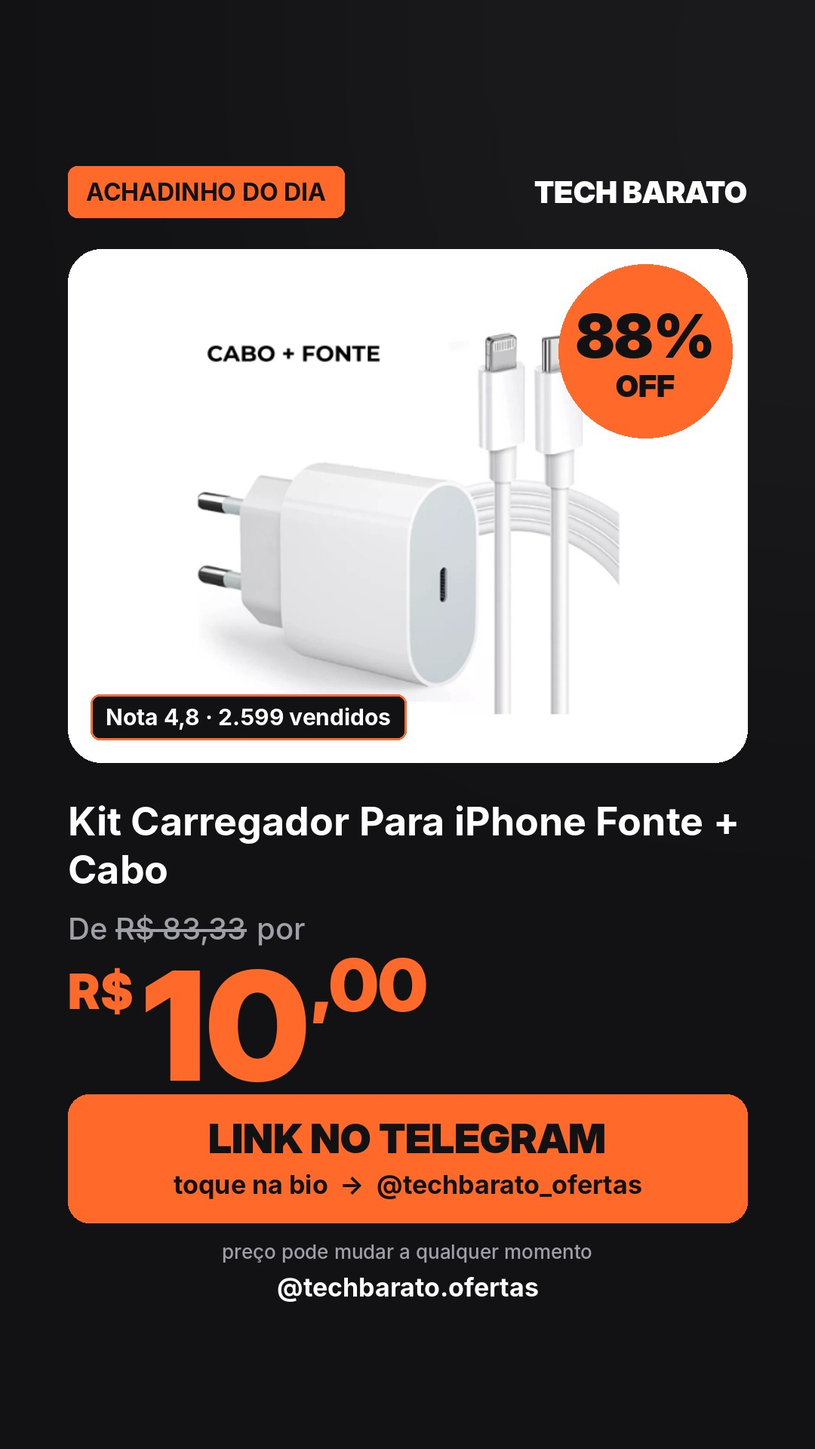
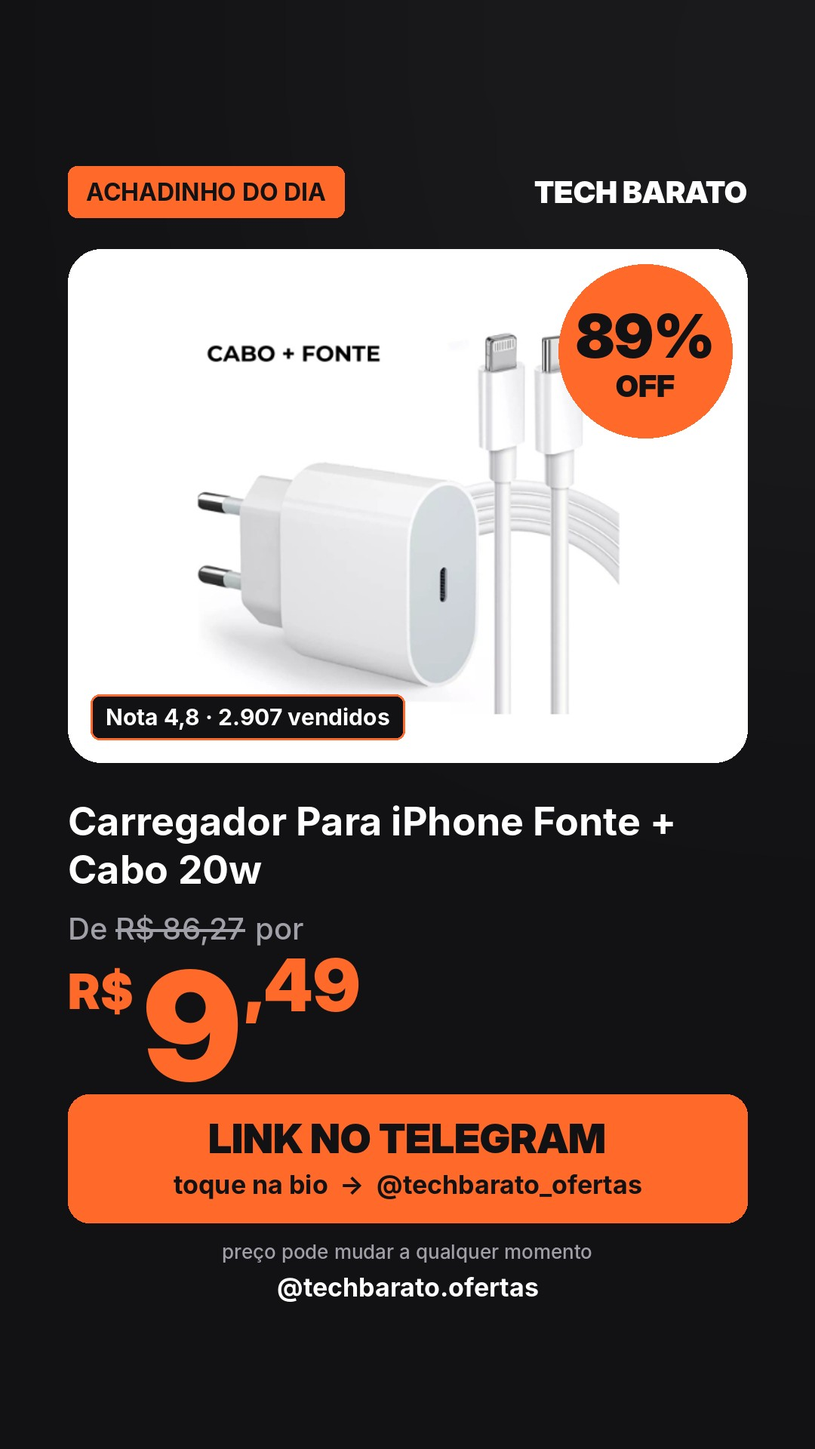
ofertas 2026-11-20_0206

diff --git a/docs/index.html b/docs/index.html
@@ -27,12 +27,12 @@ main{max-width:1100px;margin:auto;padding:8px 16px 40px;display:grid;grid-templa
 footer{text-align:center;color:var(--sub);font-size:12px;padding:0 16px 30px}
 </style></head><body>
 <header><h1>Tech Barato BR <span>●</span></h1>
-<p class="sub">Ofertas da Shopee escolhidas a dedo · atualizado em 19/11/2026 às 16:25</p>
+<p class="sub">Ofertas da Shopee escolhidas a dedo · atualizado em 19/11/2026 às 23:06</p>
 <a class="canal" href="https://t.me/techbarato_ofertas" target="_blank" rel="noopener">📢 Entrar no canal de ofertas</a><div class="filtros" id="f"></div></header>
 <main id="g"></main>
 <footer>Como afiliado da Shopee, posso receber comissão pelas compras feitas pelos links, sem custo extra para você. Preços e estoque podem mudar.</footer>
 <script>
-const D=[{"nome": "Teclado Mecânico Recarregável Interruptores Testador Chaveiros Alto-Falante Amostra Sapo", "preco": 19.4, "preco_original": 57.06, "desconto": 66, "imagem": "https://cf.shopee.com.br/file/br-11134207-81ztc-mj3vpmp8hc76ae", "nota": 4.9, "vendas": 257, "link": "https://s.shopee.com.br/60TITEbw1D", "categoria": "teclado mecanico"}, {"nome": "Mouse Gamer Wireless com Conexão 2.4GHz Estável", "preco": 19.88, "preco_original": 60.24, "desconto": 67, "imagem": "https://cf.shopee.com.br/file/br-11134207-81ztc-mkb1itv9v5s1c9", "nota": 4.8, "vendas": 538, "link": "https://s.shopee.com.br/5q9sGvKYey", "categoria": "mouse gamer"}, {"nome": "Fone De Ouvido NOVO Ruído Cancelando Earbuds Bluetooth Sem Fio HiFi Stereo Com Carregamento De Visor Digital", "preco": 19.99, "preco_original": 60.58, "desconto": 67, "imagem": "https://cf.shopee.com.br/file/sg-11134201-8224o-mhjfql4zsydg80", "nota": 4.6, "vendas": 5281, "link": "https://s.shopee.com.br/1gKJJGNZ3M", "categoria": "fone bluetooth"}, {"nome": "Mouse Gamer Wireless com Conexão 2.4GHz Estável", "preco": 19.88, "preco_original": 60.24, "desconto": 67, "imagem": "https://cf.shopee.com.br/file/br-11134207-81ztc-mkb1itv9v5s1c9", "nota": 4.8, "vendas": 1255, "link": "https://s.shopee.com.br/9zzQVYB4Q4", "categoria": "mouse gamer"}, {"nome": "T900 Ultra Smartwatch Relógio Inteligente Prova Bluetooth Monitoramento De Saúde Exercício Contagem NFC", "preco": 49.8, "preco_original": 150.91, "desconto": 67, "imagem": "https://cf.shopee.com.br/file/br-11134207-81z1k-mfffhm1n60p1be", "nota": 4.7, "vendas": 1465, "link": "https://s.shopee.com.br/9KjjiJvwNN", "categoria": "smartwatch"}, {"nome": "Fone de Ouvido entrada lightning para Iphone Microfone Bluetooth", "preco": 9.99, "preco_original": 30.27, "desconto": 67, "imagem": "https://cf.shopee.com.br/file/sg-11134201-7rbkc-lpcgfnwj651k1e", "nota": 4.7, "vendas": 6917, "link": "https://s.shopee.com.br/9KjjiJePVN", "categoria": "fone bluetooth"}, {"nome": "Headset Gamer TGT Diver V2, Rainbow, Drivers 40mm, Preto, TGT-DVR-RGB02", "preco": 55.9, "preco_original": 174.69, "desconto": 68, "imagem": "https://cf.shopee.com.br/file/br-11134207-81z1k-mf1f34sgcnwkd3", "nota": 4.9, "vendas": 1215, "link": "https://s.shopee.com.br/2gCpMtRBsu", "categoria": "headset gamer"}, {"nome": "Smartwatch D20 relógio Colocar foto com tela hd y68 bluetooth com lembrete chamada monitor de frequência", "preco": 21.98, "preco_original": 70.9, "desconto": 69, "imagem": "https://cf.shopee.com.br/file/sg-11134201-7rbk0-lqqgjmiq5mao68", "nota": 4.5, "vendas": 1266, "link": "https://s.shopee.com.br/9pfzu3iAhW", "categoria": "smartwatch"}, {"nome": "Teclado Gamer/ Escritório Com Fio RGB LED Iluminado  Com 68 Teclados Mecânicos", "preco": 88.88, "preco_original": 296.27, "desconto": 70, "imagem": "https://cf.shopee.com.br/file/br-11134207-7r98o-mcmbazbekcn5d9", "nota": 4.8, "vendas": 357, "link": "https://s.shopee.com.br/5fqQwOgVHz", "categoria": "teclado mecanico"}, {"nome": "Case HD Externo USB 3.0 para HD/SSD 2.5 Gaveta Externa Transparente com Cabo USB Alta Velocidade Compatível Notebook PC", "preco": 21.45, "preco_original": 69.19, "desconto": 69, "imagem": "https://cf.shopee.com.br/file/sg-11134201-8258b-mqnq7bykcyz2f2", "nota": 4.9, "vendas": 649, "link": "https://s.shopee.com.br/9AQIdecIWt", "categoria": "ssd"}, {"nome": "Teclado Gamer/ Escritório Com Fio RGB LED Iluminado  Com 68 Teclados Mecânicos", "preco": 88.88, "preco_original": 296.27, "desconto": 70, "imagem": "https://cf.shopee.com.br/file/br-11134207-7r98o-mcmbtqmuebcx87", "nota": 4.8, "vendas": 502, "link": "https://s.shopee.com.br/906sRLLKlZ", "categoria": "teclado mecanico"}, {"nome": "2026 T800 Ultra 3 MAX Mais Recente Smartwatch Relógio Inteligente NFC Série 10 2.19Polegadas Sem Fio", "preco": 39.8, "preco_original": 147.41, "desconto": 73, "imagem": "https://cf.shopee.com.br/file/br-11134207-81z1k-mhq4f2lhz40397", "nota": 4.7, "vendas": 1755, "link": "https://s.shopee.com.br/8pnSF28ljd", "categoria": "smartwatch"}, {"nome": "Arzopa Z1C Cinza-Monitor Portátil Com Suporte 100 % sRGB De 16.1 \" , 1080P FHD Tela De Extensão De USB C HDMI Para PC", "preco": 528.99, "preco_original": 1763.3, "desconto": 70, "imagem": "https://cf.shopee.com.br/file/cn-11134207-820l4-mvb9zjv0cyyqec", "nota": 5.0, "vendas": 270, "link": "https://s.shopee.com.br/30peYyMXsT", "categoria": "monitor portatil"}, {"nome": "Macaron Teclado Fidget Chaveiro ASMR Clicky Interruptor Mecânico Brinquedo Alívio Do Estresse Pingente Presente", "preco": 8.8, "preco_original": 30.34, "desconto": 71, "imagem": "https://cf.shopee.com.br/file/sg-11134201-8262a-mlx5pxmaeio4eb", "nota": 4.9, "vendas": 476, "link": "https://s.shopee.com.br/7fbU7XrEkT", "categoria": "teclado mecanico"}, {"nome": "1200Mbps Repetidor Wifi Sem Fio 2.4G Amplificador De Sinal Extensor Roteador Booster Network", "preco": 49.97, "preco_original": 199.88, "desconto": 75, "imagem": "https://cf.shopee.com.br/file/br-11134207-820mf-mnkugr2ku5ms16", "nota": 4.7, "vendas": 289, "link": "https://s.shopee.com.br/70LnKJcWHZ", "categoria": "roteador wifi"}, {"nome": "Fone De Ouvido Sem Fio M10 TWS Bluetooth 5.3 display Led Touch", "preco": 18.99, "preco_original": 70.33, "desconto": 73, "imagem": "https://cf.shopee.com.br/file/sg-11134201-8258z-mr0fi8bhfthid6", "nota": 4.8, "vendas": 8349, "link": "https://s.shopee.com.br/3VlunBYgzJ", "categoria": "fone bluetooth"}, {"nome": "KIT Teclado 100% mecânico Punk Esports + mouse para jogos Um item obrigatório para os jogadores -H7", "preco": 52.49, "preco_original": 201.88, "desconto": 74, "imagem": "https://cf.shopee.com.br/file/br-11134207-820m5-mu8ogr0lpfk218", "nota": 4.8, "vendas": 214, "link": "https://s.shopee.com.br/1LhQDCTk0I", "categoria": "teclado mecanico"}, {"nome": "Carregador rápido de 120W com 6A USB C cabo 1M para Mi Turbo Charge Turbo Power Cabo USB + Cabo Tipo C", "preco": 15.89, "preco_original": 61.12, "desconto": 74, "imagem": "https://cf.shopee.com.br/file/sg-11134201-823qk-moi4apd18efh61", "nota": 4.6, "vendas": 3532, "link": "https://s.shopee.com.br/W8JDfBKNI", "categoria": "carregador turbo"}, {"nome": "Câmera Segurança Lâmpada Wifi Full HD Sem Fio 360 Icsee/Yoosee Visão Noturna 8177 EKS", "preco": 58.99, "preco_original": null, "desconto": 0, "imagem": "https://cf.shopee.com.br/file/sg-11134201-8227r-mhhsrii405j733", "nota": 4.9, "vendas": 4406, "link": "https://s.shopee.com.br/3VluJvtBBx", "categoria": "camera wifi"}, {"nome": "Kit Carregador 67W Turbo + Cabo Tipo-C Carga Rápida Universal Xiaomi Redmi Note E Poco X7 Android", "preco": 29.51, "preco_original": null, "desconto": 0, "imagem": "https://cf.shopee.com.br/file/sg-11134201-8258n-mr8vmek85csha1", "nota": 4.5, "vendas": 9310, "link": "https://s.shopee.com.br/2BGWjTgaWK", "categoria": "carregador turbo"}, {"nome": "Senbenbao X55 Fones De Ouvido TWS Sono Sem Fio Bluetooth Display Led Alta Fidelidade Estéreo Cancelamento Ruído À Prova", "preco": 19.29, "preco_original": null, "desconto": 0, "imagem": "https://cf.shopee.com.br/file/sg-11134201-823ob-mp7wv1fcnx8rc4", "nota": 4.8, "vendas": 19272, "link": "https://s.shopee.com.br/20x6XAPYUt", "categoria": "fone bluetooth"}, {"nome": "Teclado Mecânico Gamer Compacto 60% 63 Teclas Switch Blue Rainbow RGB Anti-Ghosting USB", "preco": 99.88, "preco_original": 369.93, "desconto": 73, "imagem": "https://cf.shopee.com.br/file/br-11134207-820lv-mr1pu215296u72", "nota": 4.9, "vendas": 306, "link": "https://s.shopee.com.br/1W0pDmATzl", "categoria": "teclado mecanico"}, {"nome": "HUAWEI WiFi AX2S | Roteador | WS7000 V2 |  Dual Band | 4 Antenas | 5 GHz Wi-Fi 6", "preco": 129.0, "preco_original": 496.15, "desconto": 74, "imagem": "https://cf.shopee.com.br/file/br-11134207-81z1k-me9rity3qqkg1d", "nota": 5.0, "vendas": 1856, "link": "https://s.shopee.com.br/9fMWwmNNjs", "categoria": "roteador wifi"}, {"nome": "Mouse Gamer Jogos Laser 3600dpi Usb Com Fio Led 7 Botões Iluminado", "preco": 16.88, "preco_original": 99.29, "desconto": 83, "imagem": "https://cf.shopee.com.br/file/br-11134207-7r98o-lwoh850dygu797", "nota": 4.8, "vendas": 596, "link": "https://s.shopee.com.br/9AQGLr8AS2", "categoria": "mouse gamer"}, {"nome": "Medidor de SpO2 Portátil para Dedo com Tela LED, Alta Precisão para Monitoramento de Saúde em Casa e Viagem", "preco": 18.89, "preco_original": 42.93, "desconto": 56, "imagem": "https://cf.shopee.com.br/file/sg-11134201-823qv-mooxmpkz30gb81", "nota": 4.7, "vendas": 81, "link": "https://s.shopee.com.br/9V36OON8Xa", "categoria": "monitor portatil"}, {"nome": "Fone Headset Gamer RGB PRO Iluminação LED, Microfone Ajustável, Ideal para Jogos Online", "preco": 79.98, "preco_original": 186.0, "desconto": 57, "imagem": "https://cf.shopee.com.br/file/br-11134207-81z1k-mfczkewm85j991", "nota": 4.9, "vendas": 531, "link": "https://s.shopee.com.br/5Au7EQLtgK", "categoria": "headset gamer"}, {"nome": "Bluetooth Sem fio Fone de ouvido Ergonômico TWS Suporte Orelha Pendurada Anti-queda", "preco": 24.3, "preco_original": 81.0, "desconto": 70, "imagem": "https://cf.shopee.com.br/file/sg-11134201-7rdx3-mch5g12mgnkkac", "nota": 4.7, "vendas": 3047, "link": "https://s.shopee.com.br/50ah27509J", "categoria": "fone bluetooth"}, {"nome": "Smartwatch D20 - Relógio Inteligente y68 Esportivo Bluetooth Android/iOS - Com foto Na Tela", "preco": 19.99, "preco_original": null, "desconto": 0, "imagem": "https://cf.shopee.com.br/file/sg-11134201-7rffv-m43cb4hjqxjrce", "nota": 4.6, "vendas": 4726, "link": "https://s.shopee.com.br/5LDWzOAnYT", "categoria": "smartwatch"}, {"nome": "Carregador iPhone Turbo Tipo-C 20W + Cabo Lightining para IPhone Carga rápida", "preco": 15.99, "preco_original": 49.97, "desconto": 68, "imagem": "https://cf.shopee.com.br/file/sg-11134201-7rbkw-lpcg9rytbas79a", "nota": 4.8, "vendas": 10578, "link": "https://s.shopee.com.br/6q2Km8rXqG", "categoria": "carregador turbo"}, {"nome": "Fone de Ouvido Sem Fio Bluetooth com Condução Óssea/Compacto e Leve/Resistente a Água/Tipo-C", "preco": 31.9, "preco_original": 110.0, "desconto": 71, "imagem": "https://cf.shopee.com.br/file/br-11134211-820ln-mseaww44b5dz4b", "nota": 4.6, "vendas": 3367, "link": "https://s.shopee.com.br/8VAYlCU0uN", "categoria": "fone bluetooth"}, {"nome": "Câmera Vigilância WiFi 4MP Dupla Lente Detecção Inteligente Áudio 2 Vias", "preco": 125.39, "preco_original": 298.55, "desconto": 58, "imagem": "https://cf.shopee.com.br/file/sg-11134201-822zw-mi0cmfoz1p1k70", "nota": 4.9, "vendas": 1412, "link": "https://s.shopee.com.br/7pur5nBt47", "categoria": "camera wifi"}, {"nome": "50M 1080P Sem Fio HDMI Extensor Transmissor De Vídeo Receptor 1TX A 1RX Display Para PS4 Câmera Portátil PC TV Monitor P", "preco": 186.99, "preco_original": 519.42, "desconto": 64, "imagem": "https://cf.shopee.com.br/file/sg-11134201-825ah-mqh2txikvpqme5", "nota": 4.9, "vendas": 163, "link": "https://s.shopee.com.br/6L63J20Tob", "categoria": "monitor portatil"}, {"nome": "Fone De Ouvido Inpods 13 Bluetooth Sem Fio Com Microfone Fones esportivos Adequado Branco", "preco": 19.98, "preco_original": 68.9, "desconto": 71, "imagem": "https://cf.shopee.com.br/file/sg-11134201-825bb-mt7fxycgurra13", "nota": 4.7, "vendas": 7637, "link": "https://s.shopee.com.br/9pfvTSZTW4", "categoria": "fone bluetooth"}, {"nome": "JL PROTEC 4K 8MP Câmera de Segurança 2 Lentes Com Audio e Microfone Câmera 355 Graus Wifi", "preco": 176.88, "preco_original": 402.0, "desconto": 56, "imagem": "https://cf.shopee.com.br/file/br-11134201-81ztc-mj6htjflukg333", "nota": 4.9, "vendas": 1524, "link": "https://s.shopee.com.br/2VtKBa19JA", "categoria": "camera wifi"}, {"nome": "Suporte Gamer Porta Controle Videogame Para Ps4 Xbox Ps5 Fone de Ouvido Headset", "preco": 9.89, "preco_original": 24.73, "desconto": 60, "imagem": "https://cf.shopee.com.br/file/br-11134207-820ll-mlveq5qwu39je0", "nota": 4.5, "vendas": 959, "link": "https://s.shopee.com.br/3LSRB6gNUx", "categoria": "headset gamer"}, {"nome": "Fone De Ouvido Bluetooth Orelha Gatinho Infantil Led Sem Fio", "preco": 27.5, "preco_original": 98.21, "desconto": 72, "imagem": "https://cf.shopee.com.br/file/sg-11134201-820nh-mnq01ce18zr689", "nota": 4.9, "vendas": 5819, "link": "https://s.shopee.com.br/W8Fntdxsf", "categoria": "fone bluetooth"}, {"nome": "Smartwatch 7 Em 1 Alças 49mm Full Touch Screen Sport", "preco": 59.0, "preco_original": 203.45, "desconto": 71, "imagem": "https://cf.shopee.com.br/file/sg-11134201-825zv-ml16vfpvksg5ae", "nota": 4.8, "vendas": 1126, "link": "https://s.shopee.com.br/20x3Czjwhw", "categoria": "smartwatch"}, {"nome": "Mini Teclado Mecânico Anti-Ansiedade em Chaveiro com 4 Teclas Clicáveis – Som Tátil Relaxante", "preco": 11.99, "preco_original": 44.41, "desconto": 73, "imagem": "https://cf.shopee.com.br/file/br-11134207-820m0-mpz8z4g03vuo16", "nota": 4.8, "vendas": 324, "link": "https://s.shopee.com.br/906nXr1hKm", "categoria": "teclado mecanico"}, {"nome": "Fones de Ouvido Bluetooth 5.4 X55 com Visor LED, Hi-Fi Estéreo, Cancelamento de Ruído, Design à Prova d’Água para Graves", "preco": 23.98, "preco_original": 88.81, "desconto": 73, "imagem": "https://cf.shopee.com.br/file/sg-11134201-825a9-mu36trol6akg59", "nota": 4.7, "vendas": 3069, "link": "https://s.shopee.com.br/40i7af7bOE", "categoria": "fone bluetooth"}, {"nome": "Case Gaveta HD SSD 2.5 Sata III USB 3.0 Transparente Externo 6Gbps PC Notebook PS4 Kit 2  su", "preco": 30.99, "preco_original": 99.97, "desconto": 69, "imagem": "https://cf.shopee.com.br/file/sg-11134201-822x7-mhwbric3x4hw69", "nota": 4.9, "vendas": 376, "link": "https://s.shopee.com.br/8Kr65RWREx", "categoria": "ssd"}, {"nome": "Teclado Gamer Semi-mecânico Rgb Anti-ghosting", "preco": 38.88, "preco_original": 149.54, "desconto": 74, "imagem": "https://cf.shopee.com.br/file/br-11134207-7r98o-mcw6gui5vk1e01", "nota": 4.8, "vendas": 962, "link": "https://s.shopee.com.br/8AXft8FxIb", "categoria": "teclado mecanico"}, {"nome": "Fone Pro Sem Fio Som HiFi 8D Pop-Up Automático Toque Inteligente Bateria 5–7h Bluetooth Universal", "preco": 17.99, "preco_original": 69.19, "desconto": 74, "imagem": "https://cf.shopee.com.br/file/sg-11134201-8261z-ml25b72c1ds21d", "nota": 4.8, "vendas": 6974, "link": "https://s.shopee.com.br/gRexLQlr7", "categoria": "fone bluetooth"}, {"nome": "15,6\" portátil Monitor de FHD 1920*1080P IPS 300Nits HDR para jogos compatível com PC/PS3/4/5/Switch/Xbox/Laptop/Celular", "preco": 382.35, "preco_original": 1006.18, "desconto": 62, "imagem": "https://cf.shopee.com.br/file/br-11134207-820lj-mt9fzhlxl2bm30", "nota": 4.8, "vendas": 158, "link": "https://s.shopee.com.br/8AXfXqlb8X", "categoria": "monitor portatil"}, {"nome": "Smartwatch MINI 38MM PRO Com monitor De Frequência Cardíaca Do Computador São Paulo pronta entrega", "preco": 53.99, "preco_original": 199.96, "desconto": 73, "imagem": "https://cf.shopee.com.br/file/br-11134207-81z1k-mg4sqr0e5nggcd", "nota": 4.8, "vendas": 1671, "link": "https://s.shopee.com.br/7fbOwvVplX", "categoria": "smartwatch"}, {"nome": "Headset Gamer Camuflado Com Fio Estéreo Microfone USB P2 50mm Para PC PS4 Xbox-Onistek", "preco": 74.99, "preco_original": 288.42, "desconto": 74, "imagem": "https://cf.shopee.com.br/file/br-11134207-820m3-mrvxqm20m9z828", "nota": 4.9, "vendas": 667, "link": "https://s.shopee.com.br/3LSPmxUfAm", "categoria": "headset gamer"}, {"nome": "Câmera Externa Ip a Prova D'água 4mp wifi ptz com Infravermelho lente dupla Bivolt 110/220V WiFi 360 -G1", "preco": 129.99, "preco_original": 406.22, "desconto": 68, "imagem": "https://cf.shopee.com.br/file/br-11134207-820lk-mtev0n6q7k75f5", "nota": 4.9, "vendas": 302, "link": "https://s.shopee.com.br/Lonrjvy7L", "categoria": "camera wifi"}, {"nome": "Headset Gamer 7.1 Surround Rgb Delta-f7140 Com Microfone Para Pc E Console", "preco": 54.78, "preco_original": 210.69, "desconto": 74, "imagem": "https://cf.shopee.com.br/file/br-11134207-820lk-moa3sgm6molj9c", "nota": 4.9, "vendas": 745, "link": "https://s.shopee.com.br/9KjcaHAREa", "categoria": "headset gamer"}, {"nome": "Fone de Ouvido Sem Fio Airpods PRO 3 Com Cancelamento De Ruído Bluetooth Pop-Up para iOS e Android", "preco": 42.98, "preco_original": 171.92, "desconto": 75, "imagem": "https://cf.shopee.com.br/file/sg-11134201-7rd3v-m70zchxbcirf93", "nota": 4.7, "vendas": 5183, "link": "https://s.shopee.com.br/7KyYCb0WPt", "categoria": "fone bluetooth"}, {"nome": "Cabo Carregador USB Typo C 1 Metro Para Android Galaxy Xiomi Moto G Carregamento Turbo Reforçado", "preco": 10.0, "preco_original": 25.0, "desconto": 60, "imagem": "https://cf.shopee.com.br/file/br-11134201-820lh-mqy2kshjlo1x20", "nota": 4.8, "vendas": 1991, "link": "https://s.shopee.com.br/AAIjI8w0MM", "categoria": "carregador turbo"}, {"nome": "Repetidor Wifi 1200m 6/4 Antenas 3 in 1 functios 2.4g Roteador Amplificador De Sinal e Modem 300MBPS", "preco": 46.98, "preco_original": 120.46, "desconto": 61, "imagem": "https://cf.shopee.com.br/file/br-11134207-820m2-mtz23drmeh3613", "nota": 4.8, "vendas": 774, "link": "https://s.shopee.com.br/9V32UuhM9e", "categoria": "roteador wifi"}, {"nome": "Case Gaveta HD SSD 2.5 Sata III USB 3.0 Transparente Externo 6Gbps PC Notebook PS4 Kit 2  jehnny", "preco": 30.99, "preco_original": 99.97, "desconto": 69, "imagem": "https://cf.shopee.com.br/file/sg-11134201-822x9-mhwbs2tvuo0443", "nota": 4.9, "vendas": 657, "link": "https://s.shopee.com.br/9AQC6IQxU7", "categoria": "ssd"}, {"nome": "Teclado Mecanico TGT Sherman V3 C1, Rainbow, ABNT2, Switch Vermelho, Preto, TGT-SHRC-RD01", "preco": 91.91, "preco_original": 382.96, "desconto": 76, "imagem": "https://cf.shopee.com.br/file/br-11134207-820ls-mqeqor4mxm2o65", "nota": 4.9, "vendas": 432, "link": "https://s.shopee.com.br/AKc8rS07aC", "categoria": "teclado mecanico"}, {"nome": "Fone de Ouvido Sem Fio Com Cancelamento De Ruído Bluetooth Pop-Up", "preco": 42.89, "preco_original": 194.95, "desconto": 78, "imagem": "https://cf.shopee.com.br/file/sg-11134201-7rffm-m4f5wo6pi7mjaa", "nota": 4.8, "vendas": 5966, "link": "https://s.shopee.com.br/114TkIIBur", "categoria": "fone bluetooth"}, {"nome": "Carregador Turbo Inteligente + V8/tipo c Turbo com Cabo Micro USB Novos Telefones Recomendados", "preco": 14.88, "preco_original": 99.2, "desconto": 85, "imagem": "https://cf.shopee.com.br/file/br-11134207-7r98o-lwsogz92un4ic8", "nota": 4.7, "vendas": 1971, "link": "https://s.shopee.com.br/4B1VW6oOpy", "categoria": "carregador turbo"}, {"nome": "Suporte Roteador Modem Parede Sem Furo Fita 3M Adesivo Universal Organizador WiFi Internet", "preco": 12.0, "preco_original": 36.36, "desconto": 67, "imagem": "https://cf.shopee.com.br/file/br-11134207-820lb-mujiqv5jrabkd0", "nota": 4.6, "vendas": 313, "link": "https://s.shopee.com.br/4fxldTIEY9", "categoria": "roteador wifi"}, {"nome": "Smartwatch WL23 PRO(46mm)2026 3 Pulseiras inteligente GPS unisex Esportes Faz Recebe Chamada", "preco": 44.88, "preco_original": 187.0, "desconto": 76, "imagem": "https://cf.shopee.com.br/file/br-11134207-820m0-mpp5kpuip537a4", "nota": 4.9, "vendas": 1790, "link": "https://s.shopee.com.br/6q2GDRsnc9", "categoria": "smartwatch"}, {"nome": "Fone Bluetooth Pro5 Premium | Imersão Total c Cancelamento Ruído Qualidade Superior p iPhoneAndroid", "preco": 66.88, "preco_original": 290.78, "desconto": 77, "imagem": "https://cf.shopee.com.br/file/br-11134207-81z1k-mg4gj8nwxkw7e0", "nota": 4.7, "vendas": 6638, "link": "https://s.shopee.com.br/LomTUzX6I", "categoria": "fone bluetooth"}, {"nome": "Câmera De Segurança Wifi Ip Audio E Sensor Movimen 360 Graus", "preco": 89.89, "preco_original": 172.87, "desconto": 48, "imagem": "https://cf.shopee.com.br/file/br-11134207-7r98o-macsnscjp4lrf3", "nota": 4.7, "vendas": 530, "link": "https://s.shopee.com.br/2LZqTJ0bxb", "categoria": "camera wifi"}, {"nome": "Mini Câmera De Segurança X5 Portátil Full Hd Discreta Monitora Pronta Entrega", "preco": 59.98, "preco_original": 119.96, "desconto": 50, "imagem": "https://cf.shopee.com.br/file/br-11134207-7r98o-lu8g113mxn6cb5", "nota": 4.5, "vendas": 99, "link": "https://s.shopee.com.br/40i4SMcjj6", "categoria": "monitor portatil"}, {"nome": "Calculadora Colorida Morandi De 12 Dígitos Teclado Mecânico De Ponto Grande Escola & Papelaria De Escritório Multineos", "preco": 22.69, "preco_original": 68.76, "desconto": 67, "imagem": "https://cf.shopee.com.br/file/br-11134207-7r98o-m29ormpaj3kmd9", "nota": 4.9, "vendas": 178, "link": "https://s.shopee.com.br/50abeCHGIF", "categoria": "teclado mecanico"}];
+const D=[{"nome": "Relogio Smartwatch Feminino Masculino  Series 10 Para Android ios Faz Recebe Chamada", "preco": 45.99, "preco_original": 199.96, "desconto": 77, "imagem": "https://cf.shopee.com.br/file/br-11134207-81ztc-mk9cs8cko8ap5e", "nota": 4.8, "vendas": 1346, "link": "https://s.shopee.com.br/70Lq6bQXse", "categoria": "smartwatch"}, {"nome": "Fone de Ouvido Sem Fio  PRO5 airpods Com Cancelamento De Ruído Bluetooth Pop-Up para iOS e Android", "preco": 42.98, "preco_original": 238.78, "desconto": 82, "imagem": "https://cf.shopee.com.br/file/br-11134207-7r98o-m712dqkqe0xc50", "nota": 4.7, "vendas": 5852, "link": "https://s.shopee.com.br/4LL4vhJ6B8", "categoria": "fone bluetooth"}, {"nome": "Carregador Para iPhone Fonte + Cabo 20w PD Turbo Rapido Tipo C Lightning", "preco": 9.49, "preco_original": 86.27, "desconto": 89, "imagem": "https://cf.shopee.com.br/file/br-11134207-7r98o-lsvdp1mfzd44da", "nota": 4.8, "vendas": 2907, "link": "https://s.shopee.com.br/8fU45ekvzN", "categoria": "carregador turbo"}, {"nome": "Teclado Mecânico Recarregável Interruptores Testador Chaveiros Alto-Falante Amostra Sapo", "preco": 19.4, "preco_original": 57.06, "desconto": 66, "imagem": "https://cf.shopee.com.br/file/br-11134207-81ztc-mj3vpmp8hc76ae", "nota": 4.9, "vendas": 257, "link": "https://s.shopee.com.br/60TITEbw1D", "categoria": "teclado mecanico"}, {"nome": "Mouse Gamer Wireless com Conexão 2.4GHz Estável", "preco": 19.88, "preco_original": 60.24, "desconto": 67, "imagem": "https://cf.shopee.com.br/file/br-11134207-81ztc-mkb1itv9v5s1c9", "nota": 4.8, "vendas": 538, "link": "https://s.shopee.com.br/5q9sGvKYey", "categoria": "mouse gamer"}, {"nome": "Fone De Ouvido NOVO Ruído Cancelando Earbuds Bluetooth Sem Fio HiFi Stereo Com Carregamento De Visor Digital", "preco": 19.99, "preco_original": 60.58, "desconto": 67, "imagem": "https://cf.shopee.com.br/file/sg-11134201-8224o-mhjfql4zsydg80", "nota": 4.6, "vendas": 5281, "link": "https://s.shopee.com.br/1gKJJGNZ3M", "categoria": "fone bluetooth"}, {"nome": "Mouse Gamer Wireless com Conexão 2.4GHz Estável", "preco": 19.88, "preco_original": 60.24, "desconto": 67, "imagem": "https://cf.shopee.com.br/file/br-11134207-81ztc-mkb1itv9v5s1c9", "nota": 4.8, "vendas": 1255, "link": "https://s.shopee.com.br/9zzQVYB4Q4", "categoria": "mouse gamer"}, {"nome": "T900 Ultra Smartwatch Relógio Inteligente Prova Bluetooth Monitoramento De Saúde Exercício Contagem NFC", "preco": 49.8, "preco_original": 150.91, "desconto": 67, "imagem": "https://cf.shopee.com.br/file/br-11134207-81z1k-mfffhm1n60p1be", "nota": 4.7, "vendas": 1465, "link": "https://s.shopee.com.br/9KjjiJvwNN", "categoria": "smartwatch"}, {"nome": "Fone de Ouvido entrada lightning para Iphone Microfone Bluetooth", "preco": 9.99, "preco_original": 30.27, "desconto": 67, "imagem": "https://cf.shopee.com.br/file/sg-11134201-7rbkc-lpcgfnwj651k1e", "nota": 4.7, "vendas": 6917, "link": "https://s.shopee.com.br/9KjjiJePVN", "categoria": "fone bluetooth"}, {"nome": "Headset Gamer TGT Diver V2, Rainbow, Drivers 40mm, Preto, TGT-DVR-RGB02", "preco": 55.9, "preco_original": 174.69, "desconto": 68, "imagem": "https://cf.shopee.com.br/file/br-11134207-81z1k-mf1f34sgcnwkd3", "nota": 4.9, "vendas": 1215, "link": "https://s.shopee.com.br/2gCpMtRBsu", "categoria": "headset gamer"}, {"nome": "Smartwatch D20 relógio Colocar foto com tela hd y68 bluetooth com lembrete chamada monitor de frequência", "preco": 21.98, "preco_original": 70.9, "desconto": 69, "imagem": "https://cf.shopee.com.br/file/sg-11134201-7rbk0-lqqgjmiq5mao68", "nota": 4.5, "vendas": 1266, "link": "https://s.shopee.com.br/9pfzu3iAhW", "categoria": "smartwatch"}, {"nome": "Teclado Gamer/ Escritório Com Fio RGB LED Iluminado  Com 68 Teclados Mecânicos", "preco": 88.88, "preco_original": 296.27, "desconto": 70, "imagem": "https://cf.shopee.com.br/file/br-11134207-7r98o-mcmbazbekcn5d9", "nota": 4.8, "vendas": 357, "link": "https://s.shopee.com.br/5fqQwOgVHz", "categoria": "teclado mecanico"}, {"nome": "Case HD Externo USB 3.0 para HD/SSD 2.5 Gaveta Externa Transparente com Cabo USB Alta Velocidade Compatível Notebook PC", "preco": 21.45, "preco_original": 69.19, "desconto": 69, "imagem": "https://cf.shopee.com.br/file/sg-11134201-8258b-mqnq7bykcyz2f2", "nota": 4.9, "vendas": 649, "link": "https://s.shopee.com.br/9AQIdecIWt", "categoria": "ssd"}, {"nome": "Teclado Gamer/ Escritório Com Fio RGB LED Iluminado  Com 68 Teclados Mecânicos", "preco": 88.88, "preco_original": 296.27, "desconto": 70, "imagem": "https://cf.shopee.com.br/file/br-11134207-7r98o-mcmbtqmuebcx87", "nota": 4.8, "vendas": 502, "link": "https://s.shopee.com.br/906sRLLKlZ", "categoria": "teclado mecanico"}, {"nome": "2026 T800 Ultra 3 MAX Mais Recente Smartwatch Relógio Inteligente NFC Série 10 2.19Polegadas Sem Fio", "preco": 39.8, "preco_original": 147.41, "desconto": 73, "imagem": "https://cf.shopee.com.br/file/br-11134207-81z1k-mhq4f2lhz40397", "nota": 4.7, "vendas": 1755, "link": "https://s.shopee.com.br/8pnSF28ljd", "categoria": "smartwatch"}, {"nome": "Arzopa Z1C Cinza-Monitor Portátil Com Suporte 100 % sRGB De 16.1 \" , 1080P FHD Tela De Extensão De USB C HDMI Para PC", "preco": 528.99, "preco_original": 1763.3, "desconto": 70, "imagem": "https://cf.shopee.com.br/file/cn-11134207-820l4-mvb9zjv0cyyqec", "nota": 5.0, "vendas": 270, "link": "https://s.shopee.com.br/30peYyMXsT", "categoria": "monitor portatil"}, {"nome": "Macaron Teclado Fidget Chaveiro ASMR Clicky Interruptor Mecânico Brinquedo Alívio Do Estresse Pingente Presente", "preco": 8.8, "preco_original": 30.34, "desconto": 71, "imagem": "https://cf.shopee.com.br/file/sg-11134201-8262a-mlx5pxmaeio4eb", "nota": 4.9, "vendas": 476, "link": "https://s.shopee.com.br/7fbU7XrEkT", "categoria": "teclado mecanico"}, {"nome": "1200Mbps Repetidor Wifi Sem Fio 2.4G Amplificador De Sinal Extensor Roteador Booster Network", "preco": 49.97, "preco_original": 199.88, "desconto": 75, "imagem": "https://cf.shopee.com.br/file/br-11134207-820mf-mnkugr2ku5ms16", "nota": 4.7, "vendas": 289, "link": "https://s.shopee.com.br/70LnKJcWHZ", "categoria": "roteador wifi"}, {"nome": "Fone De Ouvido Sem Fio M10 TWS Bluetooth 5.3 display Led Touch", "preco": 18.99, "preco_original": 70.33, "desconto": 73, "imagem": "https://cf.shopee.com.br/file/sg-11134201-8258z-mr0fi8bhfthid6", "nota": 4.8, "vendas": 8349, "link": "https://s.shopee.com.br/3VlunBYgzJ", "categoria": "fone bluetooth"}, {"nome": "KIT Teclado 100% mecânico Punk Esports + mouse para jogos Um item obrigatório para os jogadores -H7", "preco": 52.49, "preco_original": 201.88, "desconto": 74, "imagem": "https://cf.shopee.com.br/file/br-11134207-820m5-mu8ogr0lpfk218", "nota": 4.8, "vendas": 214, "link": "https://s.shopee.com.br/1LhQDCTk0I", "categoria": "teclado mecanico"}, {"nome": "Carregador rápido de 120W com 6A USB C cabo 1M para Mi Turbo Charge Turbo Power Cabo USB + Cabo Tipo C", "preco": 15.89, "preco_original": 61.12, "desconto": 74, "imagem": "https://cf.shopee.com.br/file/sg-11134201-823qk-moi4apd18efh61", "nota": 4.6, "vendas": 3532, "link": "https://s.shopee.com.br/W8JDfBKNI", "categoria": "carregador turbo"}, {"nome": "Câmera Segurança Lâmpada Wifi Full HD Sem Fio 360 Icsee/Yoosee Visão Noturna 8177 EKS", "preco": 58.99, "preco_original": null, "desconto": 0, "imagem": "https://cf.shopee.com.br/file/sg-11134201-8227r-mhhsrii405j733", "nota": 4.9, "vendas": 4406, "link": "https://s.shopee.com.br/3VluJvtBBx", "categoria": "camera wifi"}, {"nome": "Kit Carregador 67W Turbo + Cabo Tipo-C Carga Rápida Universal Xiaomi Redmi Note E Poco X7 Android", "preco": 29.51, "preco_original": null, "desconto": 0, "imagem": "https://cf.shopee.com.br/file/sg-11134201-8258n-mr8vmek85csha1", "nota": 4.5, "vendas": 9310, "link": "https://s.shopee.com.br/2BGWjTgaWK", "categoria": "carregador turbo"}, {"nome": "Senbenbao X55 Fones De Ouvido TWS Sono Sem Fio Bluetooth Display Led Alta Fidelidade Estéreo Cancelamento Ruído À Prova", "preco": 19.29, "preco_original": null, "desconto": 0, "imagem": "https://cf.shopee.com.br/file/sg-11134201-823ob-mp7wv1fcnx8rc4", "nota": 4.8, "vendas": 19272, "link": "https://s.shopee.com.br/20x6XAPYUt", "categoria": "fone bluetooth"}, {"nome": "Teclado Mecânico Gamer Compacto 60% 63 Teclas Switch Blue Rainbow RGB Anti-Ghosting USB", "preco": 99.88, "preco_original": 369.93, "desconto": 73, "imagem": "https://cf.shopee.com.br/file/br-11134207-820lv-mr1pu215296u72", "nota": 4.9, "vendas": 306, "link": "https://s.shopee.com.br/1W0pDmATzl", "categoria": "teclado mecanico"}, {"nome": "HUAWEI WiFi AX2S | Roteador | WS7000 V2 |  Dual Band | 4 Antenas | 5 GHz Wi-Fi 6", "preco": 129.0, "preco_original": 496.15, "desconto": 74, "imagem": "https://cf.shopee.com.br/file/br-11134207-81z1k-me9rity3qqkg1d", "nota": 5.0, "vendas": 1856, "link": "https://s.shopee.com.br/9fMWwmNNjs", "categoria": "roteador wifi"}, {"nome": "Mouse Gamer Jogos Laser 3600dpi Usb Com Fio Led 7 Botões Iluminado", "preco": 16.88, "preco_original": 99.29, "desconto": 83, "imagem": "https://cf.shopee.com.br/file/br-11134207-7r98o-lwoh850dygu797", "nota": 4.8, "vendas": 596, "link": "https://s.shopee.com.br/9AQGLr8AS2", "categoria": "mouse gamer"}, {"nome": "Medidor de SpO2 Portátil para Dedo com Tela LED, Alta Precisão para Monitoramento de Saúde em Casa e Viagem", "preco": 18.89, "preco_original": 42.93, "desconto": 56, "imagem": "https://cf.shopee.com.br/file/sg-11134201-823qv-mooxmpkz30gb81", "nota": 4.7, "vendas": 81, "link": "https://s.shopee.com.br/9V36OON8Xa", "categoria": "monitor portatil"}, {"nome": "Fone Headset Gamer RGB PRO Iluminação LED, Microfone Ajustável, Ideal para Jogos Online", "preco": 79.98, "preco_original": 186.0, "desconto": 57, "imagem": "https://cf.shopee.com.br/file/br-11134207-81z1k-mfczkewm85j991", "nota": 4.9, "vendas": 531, "link": "https://s.shopee.com.br/5Au7EQLtgK", "categoria": "headset gamer"}, {"nome": "Bluetooth Sem fio Fone de ouvido Ergonômico TWS Suporte Orelha Pendurada Anti-queda", "preco": 24.3, "preco_original": 81.0, "desconto": 70, "imagem": "https://cf.shopee.com.br/file/sg-11134201-7rdx3-mch5g12mgnkkac", "nota": 4.7, "vendas": 3047, "link": "https://s.shopee.com.br/50ah27509J", "categoria": "fone bluetooth"}, {"nome": "Smartwatch D20 - Relógio Inteligente y68 Esportivo Bluetooth Android/iOS - Com foto Na Tela", "preco": 19.99, "preco_original": null, "desconto": 0, "imagem": "https://cf.shopee.com.br/file/sg-11134201-7rffv-m43cb4hjqxjrce", "nota": 4.6, "vendas": 4726, "link": "https://s.shopee.com.br/5LDWzOAnYT", "categoria": "smartwatch"}, {"nome": "Carregador iPhone Turbo Tipo-C 20W + Cabo Lightining para IPhone Carga rápida", "preco": 15.99, "preco_original": 49.97, "desconto": 68, "imagem": "https://cf.shopee.com.br/file/sg-11134201-7rbkw-lpcg9rytbas79a", "nota": 4.8, "vendas": 10578, "link": "https://s.shopee.com.br/6q2Km8rXqG", "categoria": "carregador turbo"}, {"nome": "Fone de Ouvido Sem Fio Bluetooth com Condução Óssea/Compacto e Leve/Resistente a Água/Tipo-C", "preco": 31.9, "preco_original": 110.0, "desconto": 71, "imagem": "https://cf.shopee.com.br/file/br-11134211-820ln-mseaww44b5dz4b", "nota": 4.6, "vendas": 3367, "link": "https://s.shopee.com.br/8VAYlCU0uN", "categoria": "fone bluetooth"}, {"nome": "Câmera Vigilância WiFi 4MP Dupla Lente Detecção Inteligente Áudio 2 Vias", "preco": 125.39, "preco_original": 298.55, "desconto": 58, "imagem": "https://cf.shopee.com.br/file/sg-11134201-822zw-mi0cmfoz1p1k70", "nota": 4.9, "vendas": 1412, "link": "https://s.shopee.com.br/7pur5nBt47", "categoria": "camera wifi"}, {"nome": "50M 1080P Sem Fio HDMI Extensor Transmissor De Vídeo Receptor 1TX A 1RX Display Para PS4 Câmera Portátil PC TV Monitor P", "preco": 186.99, "preco_original": 519.42, "desconto": 64, "imagem": "https://cf.shopee.com.br/file/sg-11134201-825ah-mqh2txikvpqme5", "nota": 4.9, "vendas": 163, "link": "https://s.shopee.com.br/6L63J20Tob", "categoria": "monitor portatil"}, {"nome": "Fone De Ouvido Inpods 13 Bluetooth Sem Fio Com Microfone Fones esportivos Adequado Branco", "preco": 19.98, "preco_original": 68.9, "desconto": 71, "imagem": "https://cf.shopee.com.br/file/sg-11134201-825bb-mt7fxycgurra13", "nota": 4.7, "vendas": 7637, "link": "https://s.shopee.com.br/9pfvTSZTW4", "categoria": "fone bluetooth"}, {"nome": "JL PROTEC 4K 8MP Câmera de Segurança 2 Lentes Com Audio e Microfone Câmera 355 Graus Wifi", "preco": 176.88, "preco_original": 402.0, "desconto": 56, "imagem": "https://cf.shopee.com.br/file/br-11134201-81ztc-mj6htjflukg333", "nota": 4.9, "vendas": 1524, "link": "https://s.shopee.com.br/2VtKBa19JA", "categoria": "camera wifi"}, {"nome": "Suporte Gamer Porta Controle Videogame Para Ps4 Xbox Ps5 Fone de Ouvido Headset", "preco": 9.89, "preco_original": 24.73, "desconto": 60, "imagem": "https://cf.shopee.com.br/file/br-11134207-820ll-mlveq5qwu39je0", "nota": 4.5, "vendas": 959, "link": "https://s.shopee.com.br/3LSRB6gNUx", "categoria": "headset gamer"}, {"nome": "Fone De Ouvido Bluetooth Orelha Gatinho Infantil Led Sem Fio", "preco": 27.5, "preco_original": 98.21, "desconto": 72, "imagem": "https://cf.shopee.com.br/file/sg-11134201-820nh-mnq01ce18zr689", "nota": 4.9, "vendas": 5819, "link": "https://s.shopee.com.br/W8Fntdxsf", "categoria": "fone bluetooth"}, {"nome": "Smartwatch 7 Em 1 Alças 49mm Full Touch Screen Sport", "preco": 59.0, "preco_original": 203.45, "desconto": 71, "imagem": "https://cf.shopee.com.br/file/sg-11134201-825zv-ml16vfpvksg5ae", "nota": 4.8, "vendas": 1126, "link": "https://s.shopee.com.br/20x3Czjwhw", "categoria": "smartwatch"}, {"nome": "Mini Teclado Mecânico Anti-Ansiedade em Chaveiro com 4 Teclas Clicáveis – Som Tátil Relaxante", "preco": 11.99, "preco_original": 44.41, "desconto": 73, "imagem": "https://cf.shopee.com.br/file/br-11134207-820m0-mpz8z4g03vuo16", "nota": 4.8, "vendas": 324, "link": "https://s.shopee.com.br/906nXr1hKm", "categoria": "teclado mecanico"}, {"nome": "Fones de Ouvido Bluetooth 5.4 X55 com Visor LED, Hi-Fi Estéreo, Cancelamento de Ruído, Design à Prova d’Água para Graves", "preco": 23.98, "preco_original": 88.81, "desconto": 73, "imagem": "https://cf.shopee.com.br/file/sg-11134201-825a9-mu36trol6akg59", "nota": 4.7, "vendas": 3069, "link": "https://s.shopee.com.br/40i7af7bOE", "categoria": "fone bluetooth"}, {"nome": "Case Gaveta HD SSD 2.5 Sata III USB 3.0 Transparente Externo 6Gbps PC Notebook PS4 Kit 2  su", "preco": 30.99, "preco_original": 99.97, "desconto": 69, "imagem": "https://cf.shopee.com.br/file/sg-11134201-822x7-mhwbric3x4hw69", "nota": 4.9, "vendas": 376, "link": "https://s.shopee.com.br/8Kr65RWREx", "categoria": "ssd"}, {"nome": "Teclado Gamer Semi-mecânico Rgb Anti-ghosting", "preco": 38.88, "preco_original": 149.54, "desconto": 74, "imagem": "https://cf.shopee.com.br/file/br-11134207-7r98o-mcw6gui5vk1e01", "nota": 4.8, "vendas": 962, "link": "https://s.shopee.com.br/8AXft8FxIb", "categoria": "teclado mecanico"}, {"nome": "Fone Pro Sem Fio Som HiFi 8D Pop-Up Automático Toque Inteligente Bateria 5–7h Bluetooth Universal", "preco": 17.99, "preco_original": 69.19, "desconto": 74, "imagem": "https://cf.shopee.com.br/file/sg-11134201-8261z-ml25b72c1ds21d", "nota": 4.8, "vendas": 6974, "link": "https://s.shopee.com.br/gRexLQlr7", "categoria": "fone bluetooth"}, {"nome": "15,6\" portátil Monitor de FHD 1920*1080P IPS 300Nits HDR para jogos compatível com PC/PS3/4/5/Switch/Xbox/Laptop/Celular", "preco": 382.35, "preco_original": 1006.18, "desconto": 62, "imagem": "https://cf.shopee.com.br/file/br-11134207-820lj-mt9fzhlxl2bm30", "nota": 4.8, "vendas": 158, "link": "https://s.shopee.com.br/8AXfXqlb8X", "categoria": "monitor portatil"}, {"nome": "Smartwatch MINI 38MM PRO Com monitor De Frequência Cardíaca Do Computador São Paulo pronta entrega", "preco": 53.99, "preco_original": 199.96, "desconto": 73, "imagem": "https://cf.shopee.com.br/file/br-11134207-81z1k-mg4sqr0e5nggcd", "nota": 4.8, "vendas": 1671, "link": "https://s.shopee.com.br/7fbOwvVplX", "categoria": "smartwatch"}, {"nome": "Headset Gamer Camuflado Com Fio Estéreo Microfone USB P2 50mm Para PC PS4 Xbox-Onistek", "preco": 74.99, "preco_original": 288.42, "desconto": 74, "imagem": "https://cf.shopee.com.br/file/br-11134207-820m3-mrvxqm20m9z828", "nota": 4.9, "vendas": 667, "link": "https://s.shopee.com.br/3LSPmxUfAm", "categoria": "headset gamer"}, {"nome": "Câmera Externa Ip a Prova D'água 4mp wifi ptz com Infravermelho lente dupla Bivolt 110/220V WiFi 360 -G1", "preco": 129.99, "preco_original": 406.22, "desconto": 68, "imagem": "https://cf.shopee.com.br/file/br-11134207-820lk-mtev0n6q7k75f5", "nota": 4.9, "vendas": 302, "link": "https://s.shopee.com.br/Lonrjvy7L", "categoria": "camera wifi"}, {"nome": "Headset Gamer 7.1 Surround Rgb Delta-f7140 Com Microfone Para Pc E Console", "preco": 54.78, "preco_original": 210.69, "desconto": 74, "imagem": "https://cf.shopee.com.br/file/br-11134207-820lk-moa3sgm6molj9c", "nota": 4.9, "vendas": 745, "link": "https://s.shopee.com.br/9KjcaHAREa", "categoria": "headset gamer"}, {"nome": "Fone de Ouvido Sem Fio Airpods PRO 3 Com Cancelamento De Ruído Bluetooth Pop-Up para iOS e Android", "preco": 42.98, "preco_original": 171.92, "desconto": 75, "imagem": "https://cf.shopee.com.br/file/sg-11134201-7rd3v-m70zchxbcirf93", "nota": 4.7, "vendas": 5183, "link": "https://s.shopee.com.br/7KyYCb0WPt", "categoria": "fone bluetooth"}, {"nome": "Cabo Carregador USB Typo C 1 Metro Para Android Galaxy Xiomi Moto G Carregamento Turbo Reforçado", "preco": 10.0, "preco_original": 25.0, "desconto": 60, "imagem": "https://cf.shopee.com.br/file/br-11134201-820lh-mqy2kshjlo1x20", "nota": 4.8, "vendas": 1991, "link": "https://s.shopee.com.br/AAIjI8w0MM", "categoria": "carregador turbo"}, {"nome": "Repetidor Wifi 1200m 6/4 Antenas 3 in 1 functios 2.4g Roteador Amplificador De Sinal e Modem 300MBPS", "preco": 46.98, "preco_original": 120.46, "desconto": 61, "imagem": "https://cf.shopee.com.br/file/br-11134207-820m2-mtz23drmeh3613", "nota": 4.8, "vendas": 774, "link": "https://s.shopee.com.br/9V32UuhM9e", "categoria": "roteador wifi"}, {"nome": "Case Gaveta HD SSD 2.5 Sata III USB 3.0 Transparente Externo 6Gbps PC Notebook PS4 Kit 2  jehnny", "preco": 30.99, "preco_original": 99.97, "desconto": 69, "imagem": "https://cf.shopee.com.br/file/sg-11134201-822x9-mhwbs2tvuo0443", "nota": 4.9, "vendas": 657, "link": "https://s.shopee.com.br/9AQC6IQxU7", "categoria": "ssd"}, {"nome": "Teclado Mecanico TGT Sherman V3 C1, Rainbow, ABNT2, Switch Vermelho, Preto, TGT-SHRC-RD01", "preco": 91.91, "preco_original": 382.96, "desconto": 76, "imagem": "https://cf.shopee.com.br/file/br-11134207-820ls-mqeqor4mxm2o65", "nota": 4.9, "vendas": 432, "link": "https://s.shopee.com.br/AKc8rS07aC", "categoria": "teclado mecanico"}, {"nome": "Fone de Ouvido Sem Fio Com Cancelamento De Ruído Bluetooth Pop-Up", "preco": 42.89, "preco_original": 194.95, "desconto": 78, "imagem": "https://cf.shopee.com.br/file/sg-11134201-7rffm-m4f5wo6pi7mjaa", "nota": 4.8, "vendas": 5966, "link": "https://s.shopee.com.br/114TkIIBur", "categoria": "fone bluetooth"}, {"nome": "Carregador Turbo Inteligente + V8/tipo c Turbo com Cabo Micro USB Novos Telefones Recomendados", "preco": 14.88, "preco_original": 99.2, "desconto": 85, "imagem": "https://cf.shopee.com.br/file/br-11134207-7r98o-lwsogz92un4ic8", "nota": 4.7, "vendas": 1971, "link": "https://s.shopee.com.br/4B1VW6oOpy", "categoria": "carregador turbo"}, {"nome": "Suporte Roteador Modem Parede Sem Furo Fita 3M Adesivo Universal Organizador WiFi Internet", "preco": 12.0, "preco_original": 36.36, "desconto": 67, "imagem": "https://cf.shopee.com.br/file/br-11134207-820lb-mujiqv5jrabkd0", "nota": 4.6, "vendas": 313, "link": "https://s.shopee.com.br/4fxldTIEY9", "categoria": "roteador wifi"}, {"nome": "Smartwatch WL23 PRO(46mm)2026 3 Pulseiras inteligente GPS unisex Esportes Faz Recebe Chamada", "preco": 44.88, "preco_original": 187.0, "desconto": 76, "imagem": "https://cf.shopee.com.br/file/br-11134207-820m0-mpp5kpuip537a4", "nota": 4.9, "vendas": 1790, "link": "https://s.shopee.com.br/6q2GDRsnc9", "categoria": "smartwatch"}, {"nome": "Fone Bluetooth Pro5 Premium | Imersão Total c Cancelamento Ruído Qualidade Superior p iPhoneAndroid", "preco": 66.88, "preco_original": 290.78, "desconto": 77, "imagem": "https://cf.shopee.com.br/file/br-11134207-81z1k-mg4gj8nwxkw7e0", "nota": 4.7, "vendas": 6638, "link": "https://s.shopee.com.br/LomTUzX6I", "categoria": "fone bluetooth"}];
 const brl=v=>v.toLocaleString('pt-BR',{style:'currency',currency:'BRL'});
 const esc=s=>String(s??'').replace(/[&<>"]/g,c=>({'&':'&amp;','<':'&lt;','>':'&gt;','"':'&quot;'}[c]));
 let cat='Todas';
